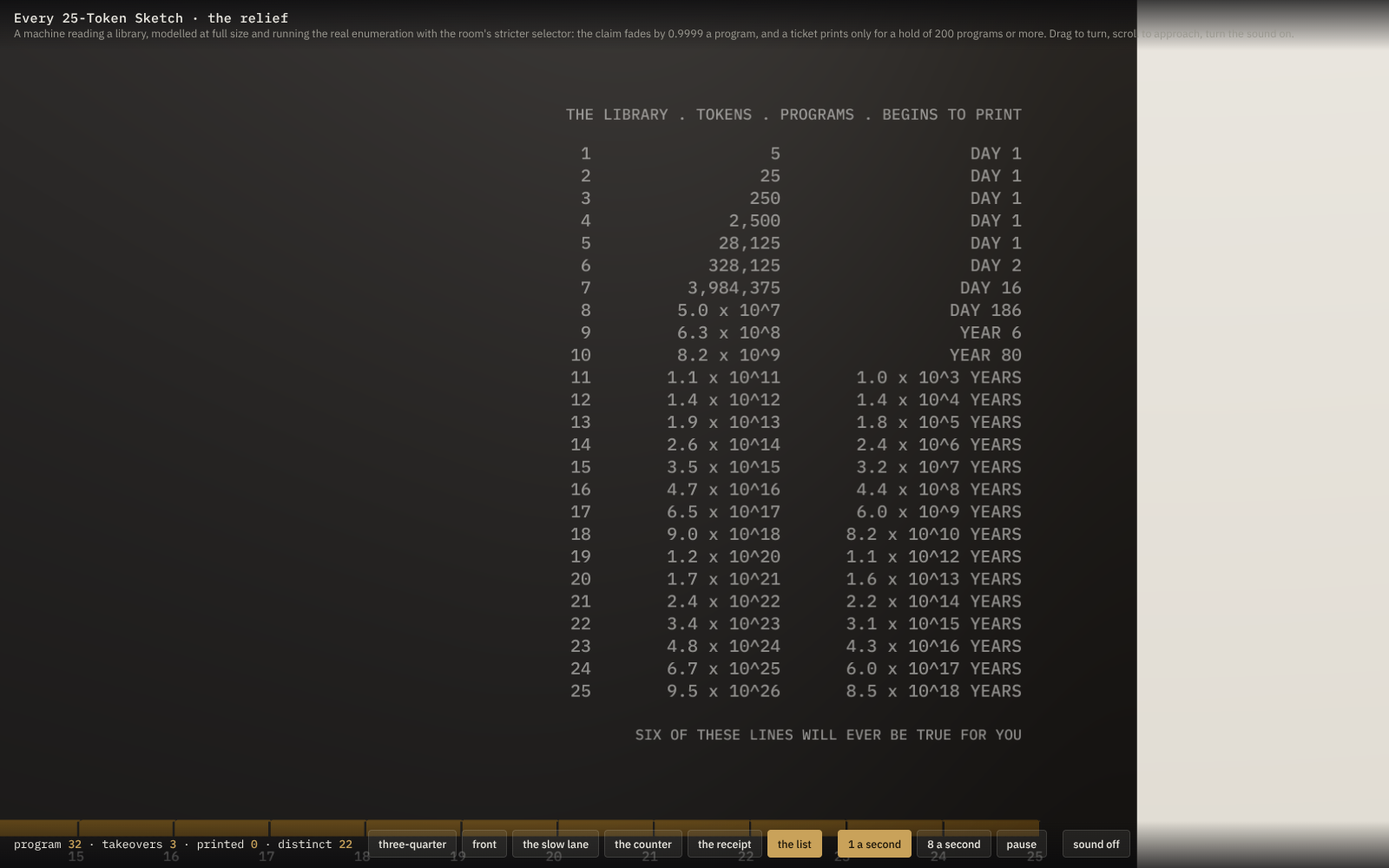
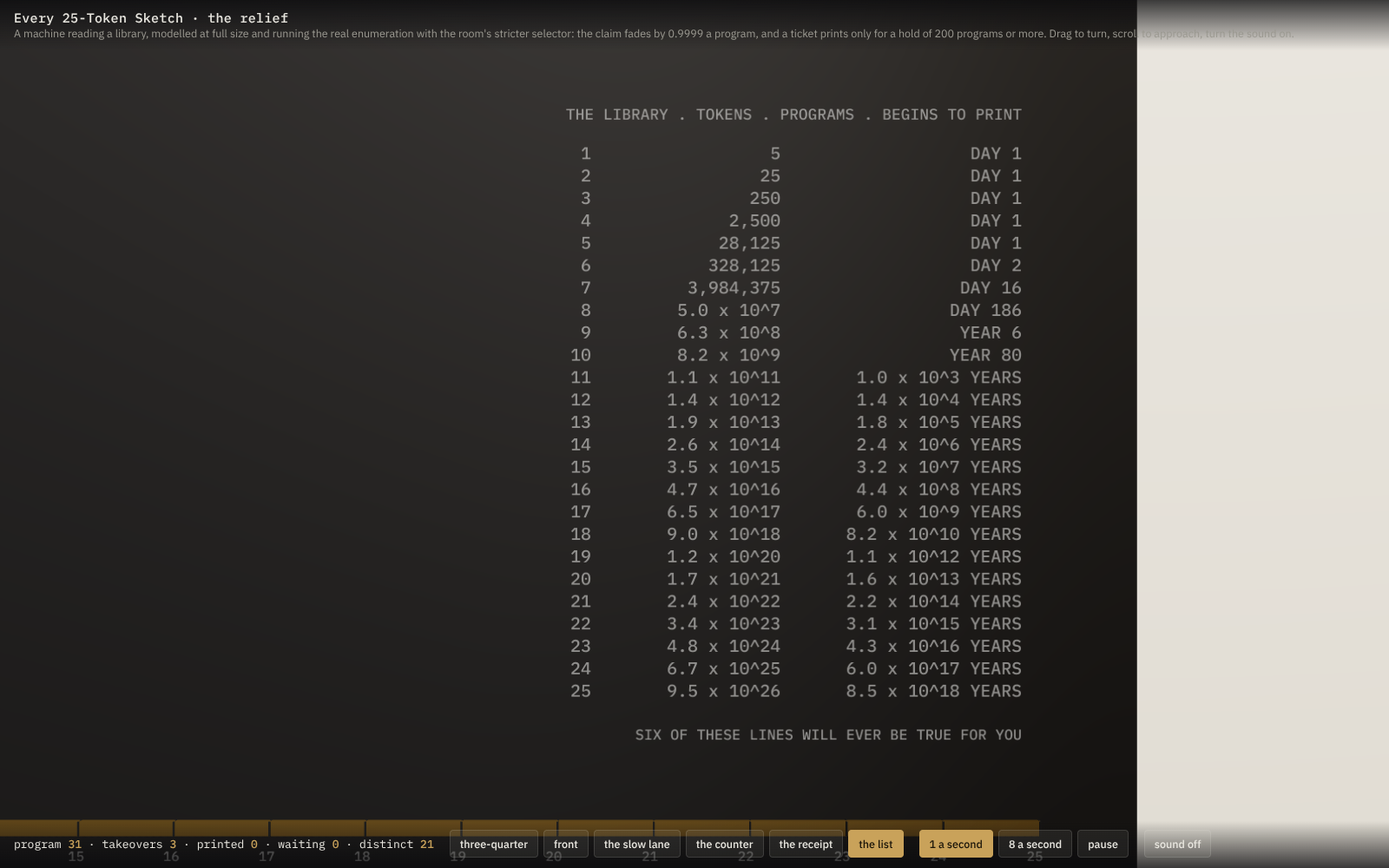
045: the queue of one — the pocket holds one ticket; the next prints when it is taken
receipt.js: the found that lasted join a queue; the oldest waiting ticket prints only into an
empty pocket, three seconds after the last was taken. The pocket is read by a reflective
sensor (--sensor 17, a GPIO, or a file), or a taker is simulated (--taken N); with neither
every found prints at once, as before. The cut is now a full cut: the partial cut would have
left the ticket hanging by a tab. The registry logs found, printed (with the wait) and taken.

The model: a 64 × 8 × 22 mm pocket with the sensor in its floor, one ticket standing, taken
after 8 to 24 s, "waiting" in the HUD. DESIGN.md, BUILD.md, the elevation and the README
follow, with the chute behind the face and the ruler's progression corrected: the pointer
crosses 298 mm on the first day, 473 at a year, 526 at six, on a belt-driven axis.

Claude-Session: https://claude.ai/code/session_01FhnofTHF49yv2QouZWRnps

Changed region(s): [[0.2188, 0.93, 0.8125, 0.992], [0.8438, 0.961, 0.875, 0.992]]

diff --git a/projects/045-every-25-token-sketch/relief/model.html b/projects/045-every-25-token-sketch/relief/model.html
@@ -38,7 +38,7 @@
   </div>
 </div>
 <div class="hud bottom">
-  <div class="stat">program <b id="prog">0</b> · takeovers <b id="found">0</b> · printed <b id="printed">0</b> · distinct <b id="distinct">0</b></div>
+  <div class="stat">program <b id="prog">0</b> · takeovers <b id="found">0</b> · printed <b id="printed">0</b> · waiting <b id="waiting">0</b> · distinct <b id="distinct">0</b></div>
   <div class="group" role="group" aria-label="view">
     <button id="v0" aria-pressed="true">three-quarter</button><button id="v1">front</button><button id="v2">the slow lane</button><button id="v3">the counter</button><button id="v4">the receipt</button><button id="v5">the list</button>
   </div>
@@ -612,11 +612,13 @@ const wheels = [];
 // the printer's font); the newest hangs from the slot for a moment, then drops into the tray
 box(720, 560, 120, 14, 0.006, recess, 0.0005);
 const tray = new THREE.Group(); scene.add(tray);
-{ const tp = mm(780, 672, 0.0); const w = 0.064, d = 0.022, h = 0.022, t = 0.0015;   // the pocket: folded 1.5 mm steel under the slot, 64 mm wide, 22 deep, a 22 mm front; the ticket stands in it, picture up, face out
+{ const tp = mm(780, 672, 0.0); const w = 0.064, d = 0.008, h = 0.022, t = 0.0015;   // the pocket: folded 1.5 mm steel under the slot, 64 mm wide, 8 deep, a 22 mm front; it holds one ticket, standing, picture up, face out
   const mk = (w, h, d, x, y, z) => { const m = new THREE.Mesh(new THREE.BoxGeometry(w, h, d), steel); m.position.set(x, y, z); m.castShadow = true; m.receiveShadow = true; tray.add(m); };
   mk(w + 2 * t, t, d, tp.x, tp.y - t / 2, tp.z + d / 2);                                                    // floor
   mk(t, h, d, tp.x - w / 2 - t / 2, tp.y + h / 2, tp.z + d / 2); mk(t, h, d, tp.x + w / 2 + t / 2, tp.y + h / 2, tp.z + d / 2);   // sides
   mk(w + 2 * t, h, t, tp.x, tp.y + h / 2, tp.z + d - t / 2);                                                // front
+  const eye = new THREE.Mesh(new THREE.CylinderGeometry(0.0015, 0.0015, 0.001, 10), new THREE.MeshStandardMaterial({ color: 0x111111, roughness: 0.3 }));   // the reflective sensor, in the pocket's floor
+  eye.position.set(tp.x + 0.02, tp.y + 0.0005, tp.z + d / 2); tray.add(eye);
 }
 label(762, 716, 'TAKE ONE', 11, 'left', 200);
 const DPM = 8, PAPER_W = 58 * DPM, PRINT_W = 384, TICKET_H = 726;
@@ -649,32 +651,37 @@ const slotP = mm(780, 574, 0.004), trayP = mm(780, 672, 0.0);   // the slot's fo
 const tickets = [];                                                  // { mesh, k, born, inTray }
 const ticketGeom = new THREE.PlaneGeometry(0.058, TICKET_H / DPM / 1000);
 function printTicket(f, no, now) {
-  const m = new THREE.Mesh(ticketGeom, new THREE.MeshStandardMaterial({ map: ticketTexture(f, no), roughness: 0.9, side: THREE.DoubleSide }));
+  const m = new THREE.Mesh(ticketGeom, new THREE.MeshStandardMaterial({ map: ticketTexture(f, no), roughness: 0.9, side: THREE.DoubleSide, transparent: true }));
   m.castShadow = true; m.position.copy(HANG_P); m.quaternion.copy(HANG_Q); scene.add(m);
-  tickets.push({ mesh: m, k: f.k, born: now, inTray: false, yaw: Math.sin(f.k * 3) * 0.03, dx: Math.sin(f.k * 7) * 0.001 });
-  while (tickets.length > 24) { const old = tickets.shift(); scene.remove(old.mesh); old.mesh.material.map.dispose(); old.mesh.material.dispose(); }
+  tickets.push({ mesh: m, k: f.k, born: now, takenAt: -1, dx: Math.sin(f.k * 7) * 0.001 });
 }
-// the printer prints the ticket last line first (receipt.js, upside-down mode), so it comes out
-// of the slot with its picture last and uppermost, face out, and slides straight down into the
-// pocket as it is fed; cut, it drops the last few millimetres and stands. Each new ticket comes
-// in behind the stack, against the panel, and pushes the older ones forward against the front:
-// the oldest is in front, leaning out a little, and that is the one a visitor takes
+// the queue of one. The printer prints the ticket last line first (receipt.js, upside-down
+// mode), so it comes out of the slot picture last and uppermost, face out, slides down a chute
+// into the pocket as it is fed and, cut, drops the last few millimetres and stands. The pocket
+// holds one ticket: a sensor in its floor sees it, and the next found prints three seconds
+// after it is taken. Here a visitor takes it after 8 to 24 seconds.
 const HANG_P = new THREE.Vector3(slotP.x, slotP.y - 0.045, slotP.z + 0.004);
 const HANG_Q = new THREE.Quaternion().setFromEuler(new THREE.Euler(0.03, 0, 0));
-const STAND_Y = trayP.y + TICKET_H / DPM / 2000 + 0.001, POCKET_BACK = trayP.z + 0.004, POCKET_FRONT = trayP.z + 0.019;
-const q = new THREE.Quaternion();
-function animateTickets(now) {                                       // hang from the slot for 2 s, then drop into the pocket and stand
-  const n = tickets.length;
-  tickets.forEach((t, i) => {
-    const age = now - t.born; if (age < 2) return;
-    const u = Math.min(1, (age - 2) / 0.4), e = u * u;
-    const back = n - 1 - i;                                          // 0 = the newest, against the panel; older ones pushed forward
-    const z = Math.min(POCKET_FRONT, POCKET_BACK + 0.0006 * back), tilt = 0.12 * (z - POCKET_BACK) / (POCKET_FRONT - POCKET_BACK);
-    q.setFromEuler(new THREE.Euler(tilt, t.yaw, 0));
-    t.mesh.position.set(HANG_P.x + t.dx, HANG_P.y + (STAND_Y - HANG_P.y) * e, HANG_P.z + (z - HANG_P.z) * e);
-    t.mesh.quaternion.slerpQuaternions(HANG_Q, q, e);
-    if (u >= 1) t.inTray = true;
-  });
+const STAND_P = new THREE.Vector3(slotP.x, trayP.y + TICKET_H / DPM / 2000 + 0.001, trayP.z + 0.004);
+const STAND_Q = new THREE.Quaternion().setFromEuler(new THREE.Euler(0.05, 0, 0));
+const queue = [], queued = new Set();                                // found that lasted, waiting for the pocket
+let pocket = null, takenAt = -Infinity, nextTake = 0;
+window.pocketHas = () => !!(pocket && pocket.takenAt < 0 && performance.now() / 1000 - pocket.born > 1.5);
+function serveQueue(now) {
+  if (pocket && now >= nextTake && pocket.takenAt < 0) { pocket.takenAt = now; takenAt = now; }
+  if (pocket && pocket.takenAt >= 0 && now - pocket.takenAt > 0.8) { scene.remove(pocket.mesh); pocket.mesh.material.map.dispose(); pocket.mesh.material.dispose(); tickets.splice(tickets.indexOf(pocket), 1); pocket = null; }
+  if (!pocket && queue.length && now - takenAt >= 3) { const f = queue.shift(); soundPrint(); printTicket(f, ++printedNo, now); pocket = tickets[tickets.length - 1]; nextTake = now + 8 + 16 * Math.random(); }
+  el.waiting.textContent = grp(queue.length);
+}
+let printedNo = 0;
+function animateTickets(now) {                                       // hang from the slot for 1 s, drop into the pocket and stand; taken, lift away
+  for (const t of tickets) {
+    if (t.takenAt >= 0) { const u = Math.min(1, (now - t.takenAt) / 0.8); t.mesh.position.set(STAND_P.x + t.dx, STAND_P.y + 0.12 * u, STAND_P.z + 0.25 * u * u); t.mesh.material.opacity = 1 - u; continue; }
+    const age = now - t.born; if (age < 1) continue;
+    const u = Math.min(1, (age - 1) / 0.3), e = u * u;
+    t.mesh.position.set(HANG_P.x + t.dx, HANG_P.y + (STAND_P.y - HANG_P.y) * e, HANG_P.z + (STAND_P.z - HANG_P.z) * e);
+    t.mesh.quaternion.slerpQuaternions(HANG_Q, STAND_Q, e);
+  }
 }
 // the plate: the library's 25 lengths, their counts, when each begins to print
 {
@@ -721,7 +728,7 @@ function animateFields(now) {
 }
 function setCounter(next, now) { const s = String(next).padStart(28, '0'); let changed = 0; for (let i = 0; i < 28; i++) { const d = +s[i], w = wheels[i]; if (d !== w.digit) { w.from = w.digit; w.digit = d; w.at = now; changed++; } } soundTicks(changed); }
 function animateWheels(now) { for (const w of wheels) { let d = w.digit; if (w.at >= 0) { const u = Math.min(1, (now - w.at) / 0.25); const from = w.from, to = w.digit, delta = ((to - from) % 10 + 10) % 10; d = from + delta * (u < 1 ? (1 - Math.cos(u * Math.PI)) / 2 : 1); if (u >= 1) w.at = -1; } w.mesh.rotation.x = ((d + 0.5) / 10) * Math.PI * 2; } }   // the rim's u runs from the face upward; rotating by +θ brings digit d to the face
-const el = { prog: document.getElementById('prog'), found: document.getElementById('found'), printed: document.getElementById('printed'), distinct: document.getElementById('distinct') };
+const el = { prog: document.getElementById('prog'), found: document.getElementById('found'), printed: document.getElementById('printed'), waiting: document.getElementById('waiting'), distinct: document.getElementById('distinct') };
 function tick(now) {
   const s = M.stats(), champ = M.champion();
   if (s.next !== lastNext) {
@@ -730,10 +737,11 @@ function tick(now) {
     setCounter(s.next, now);
     const px = rx(Math.max(1, s.next)); const p = mm(px, 1366, 0.012); pointer.position.set(p.x, p.y, p.z);
     el.prog.textContent = grp(s.next); el.found.textContent = grp(s.found); el.distinct.textContent = grp(s.distinct);
-    const pr = printedOf(M.found()); el.printed.textContent = grp(pr.length);
-    if (pr.length !== paperFor) { if (paperFor >= 0 && pr.length > paperFor) { soundPrint(); const f = pr[0]; printTicket(f, pr.length, now); } paperFor = pr.length; }
+    const pr = printedOf(M.found()); el.printed.textContent = grp(printedNo);
+    if (pr.length !== paperFor) { if (paperFor >= 0) for (let i = pr.length - paperFor - 1; i >= 0; i--) if (!queued.has(pr[i].k)) { queued.add(pr[i].k); queue.push(pr[i]); } paperFor = pr.length; }
   }
   if (champ && champ.k !== lastChamp) { lastChamp = champ.k; setField(lane, dots(champ.k, 58, now, true, buf56), now); }
+  serveQueue(now);
 }
 function resize() { const w = canvas.clientWidth, h = canvas.clientHeight; if (canvas.width !== Math.round(w * renderer.getPixelRatio()) || canvas.height !== Math.round(h * renderer.getPixelRatio())) { renderer.setSize(w, h, false); camera.aspect = w / h; camera.updateProjectionMatrix(); } }
 let last = performance.now();

diff --git a/projects/045-every-25-token-sketch/receipt/receipt.js b/projects/045-every-25-token-sketch/receipt/receipt.js
@@ -10,10 +10,12 @@
 //   node receipt.js [--device /dev/usb/lp0 | --tcp host:9100 | --out file.bin | --png dir]
 //                   [--width 384|576] [--rate 8] [--start HH:MM] [--replay N] [--cut]
 //                   [--fade 0.9999] [--minhold 200] [--nocut] [--upright] [--log file] [--sign key]
+//                   [--sensor 17 | --sensor file] [--taken 20]
 //
 // The room's selector is stricter than the screen's: the champion's claim fades by 0.9999 a
 // program (the screen's 0.9992), and a ticket is printed only for a champion that held the lane
-// 200 programs or more — the ones that lasted. Measured at one program a second, that is about
+// 200 programs or more — the ones that lasted. The pocket under the slot holds one ticket: the
+// found queue, and the next prints when the last is taken (--sensor). Measured at one program a second, that is about
 // a dozen tickets an exhibition day instead of a hundred. --fade 0.9992 --minhold 0 prints as
 // the screen selects.
 //
@@ -26,8 +28,12 @@
 // --start    lock the enumeration to the clock: program 1 at HH:MM JST today, so the printer and
 //            a screen started at the same minute agree on the program number
 // --replay   do not run live: print the found through program N at once (e.g. 30905), then exit
-// --nocut    feed only, one continuous strip (default: a partial cut after each ticket, so
-//            the ticket drops into the pocket under the slot for whoever is there to take)
+// --nocut    feed only, one continuous strip (default: a full cut after each ticket, so the
+//            ticket drops into the pocket under the slot for whoever is there to take)
+// --sensor   the pocket's reflective sensor: a GPIO number on a Raspberry Pi, or a file whose
+//            first byte is 0 (a ticket is standing in the pocket) or 1 (empty). With it the
+//            pocket holds one ticket: the next found prints 3 s after the last was taken
+// --taken    no sensor: pretend each ticket is taken N seconds after it prints (a rehearsal)
 // --upright  print the ticket top first (default: last line first in the printer's upside-down
 //            mode, so the ticket comes out of the slot picture last and uppermost and stands in
 //            the pocket face out, legible, the picture above the pocket's front)
@@ -48,7 +54,7 @@ const A = {}; const argv = process.argv.slice(2);
 for (let i = 0; i < argv.length; i++) { const k = argv[i]; if (k.startsWith('--')) { const v = argv[i + 1] && !argv[i + 1].startsWith('--') ? argv[++i] : true; A[k.slice(2)] = v; } }
 const WIDTH = +(A.width || 384), RATE = +(A.rate || 8), PROLOGUE = 280, FADE = +(A.fade || 0.9999), MINHOLD = +(A.minhold === undefined ? 200 : A.minhold);
 const COLS = Math.floor(WIDTH / 12);          // characters a line in the printer's font A (12 dots wide): 32 on 58 mm, 48 on 80 mm
-const CUT = !A.nocut, FLIP = !A.upright, LOG = A.log === undefined ? path.join(__dirname, 'receipt-log.jsonl') : A.log, SIGN = typeof A.sign === 'string' ? A.sign : null;
+const CUT = !A.nocut, FLIP = !A.upright, SENSOR = A.sensor === undefined ? null : String(A.sensor), TAKEN = A.taken === undefined ? null : +A.taken, LOG = A.log === undefined ? path.join(__dirname, 'receipt-log.jsonl') : A.log, SIGN = typeof A.sign === 'string' ? A.sign : null;
 const verify = (k) => (SIGN ? require('crypto').createHmac('sha256', SIGN).update(String(k)).digest('base64').replace(/[^A-Z2-9]/g, '').slice(0, 6) : null);
 if (!A.device && !A.tcp && !A.out && !A.png) { console.error('nothing to print to: give --device, --tcp, --out or --png'); process.exit(2); }
 
@@ -120,7 +126,7 @@ function ticket(f, no, when) {
   const textOut = () => { for (const l of ls) { if (l.bold) put(ESC, 0x45, 0x01); text(l.s); if (l.bold) put(ESC, 0x45, 0x00); } };
   if (FLIP) { put(ESC, 0x64, 0x01); textOut(); put(ESC, 0x64, 0x01); rasterOut(); } else { rasterOut(); put(ESC, 0x64, 0x01); textOut(); }
   put(ESC, 0x64, CUT ? 0x03 : 0x05);                                  // feed
-  if (CUT) put(GS, 0x56, 0x01);                                       // partial cut: the ticket drops into the pocket
+  if (CUT) put(GS, 0x56, 0x00);                                       // full cut: the ticket is free and drops into the pocket (a partial cut would leave it hanging by a tab)
   return Buffer.from(bytes);
 }
 
@@ -165,22 +171,50 @@ const jst = (ms) => { const d = new Date(ms + JST * 60000); return d.toISOString
 if (A.png) fs.mkdirSync(A.png, { recursive: true });
 const seen = new Set();
 let printed = 0;
-function flush(M, when) {                      // print every found not yet printed, oldest first
+// ── the queue of one ──
+// The pocket under the slot holds one ticket. A found that lasted joins the queue; the oldest
+// waiting ticket prints only when the pocket is empty, PAUSE seconds after the last was taken,
+// so a taker sees the machine answer. The pocket is read by a reflective sensor (--sensor), or
+// a taker is simulated (--taken N: taken N seconds after printing); with neither, the pocket is
+// assumed emptied at once and every found prints as it is found (replays, strips).
+const PAUSE = 3000;
+const queue = [];                                                   // { f, held, queuedAt }
+let occupied = false, takenAt = -Infinity, printedAt = 0, sensorPath = null;
+if (SENSOR !== null) {
+  if (/^\d+$/.test(SENSOR)) {                                        // a GPIO number on a Raspberry Pi: export it and read its value
+    sensorPath = '/sys/class/gpio/gpio' + SENSOR + '/value';
+    try { if (!fs.existsSync(sensorPath)) fs.writeFileSync('/sys/class/gpio/export', SENSOR); fs.writeFileSync('/sys/class/gpio/gpio' + SENSOR + '/direction', 'in'); } catch (e) { console.error('sensor:', e.message); }
+  } else sensorPath = SENSOR;                                        // or any file whose first byte is 0 (ticket present) or 1 (empty)
+}
+const pocketHasTicket = () => { try { return fs.readFileSync(sensorPath, 'utf8').trim()[0] === '0'; } catch (e) { return occupied; } };   // the TCRT5000 module's output goes low when paper reflects
+function collect(M) {                          // every found that lasted joins the queue, oldest first
   const list = M.found().slice().reverse();
   for (const f of list) {
     if (seen.has(f.k)) continue;
     seen.add(f.k);
     const held = Math.round((f.until - f.since) * RATE);
     if (held < MINHOLD) continue;                                  // it did not last: no ticket
-    printed++;
-    const entry = Object.assign({}, f, { held });
-    const w = when || jst(Date.now());
-    send(ticket(entry, printed, w));
-    if (A.png) png(entry, printed, w, A.png);
-    if (LOG) fs.appendFileSync(LOG, JSON.stringify({ no: printed, program: f.k + 1, code: f.code, postfix: f.postfix, tokens: f.n, score: +f.peak.toFixed(4), held, printed: w, verify: verify(f.k) }) + '\n');
-    console.log('found ' + printed + ': program ' + grp(f.k + 1) + '  ' + f.code + '  held ' + grp(held) + '  ' + w);
+    queue.push({ f: Object.assign({}, f, { held }), queuedAt: Date.now() });
+    if (LOG) fs.appendFileSync(LOG, JSON.stringify({ event: 'found', program: f.k + 1, code: f.code, held, waiting: queue.length }) + '\n');
   }
 }
+function serve(when) {                         // print the oldest waiting ticket into an empty pocket
+  const now = Date.now();
+  if (occupied) {
+    const taken = sensorPath ? !pocketHasTicket() : TAKEN !== null ? now - printedAt >= TAKEN * 1000 : true;
+    if (taken) { occupied = false; takenAt = now; if (LOG && (sensorPath || TAKEN !== null)) fs.appendFileSync(LOG, JSON.stringify({ event: 'taken', no: printed, after: +((now - printedAt) / 1000).toFixed(1) }) + '\n'); }
+  }
+  if (occupied || !queue.length) return;
+  if ((sensorPath || TAKEN !== null) && now - takenAt < PAUSE) return;
+  const { f, queuedAt } = queue.shift();
+  printed++; occupied = true; printedAt = now;
+  const w = when || jst(now);
+  send(ticket(f, printed, w));
+  if (A.png) png(f, printed, w, A.png);
+  if (LOG) fs.appendFileSync(LOG, JSON.stringify({ event: 'printed', no: printed, program: f.f ? f.f.k + 1 : f.k + 1, code: f.code, postfix: f.postfix, tokens: f.n, score: +f.peak.toFixed(4), held: f.held, waited: +((now - queuedAt) / 1000).toFixed(1), waiting: queue.length, printed: w, verify: verify(f.k) }) + '\n');
+  console.log('found ' + printed + ': program ' + grp(f.k + 1) + '  ' + f.code + '  held ' + grp(f.held) + '  ' + w + (queue.length ? '  (' + queue.length + ' waiting)' : ''));
+}
+function flush(M, when) { collect(M); do { const n = printed; serve(when); if (printed === n) break; } while (!(sensorPath || TAKEN !== null)); }
 if (A.replay) {
   const n = +A.replay;
   const M = Babel.create(canvas(), { at: n, rate: RATE, prologue: PROLOGUE, fade: FADE });
@@ -200,6 +234,6 @@ if (A.replay) {
     else console.log('locked to ' + A.start + ' JST: beginning at program ' + grp(from + 1));
   }
   const M = Babel.create(canvas(), { rate: RATE, prologue: PROLOGUE, from, fade: FADE });
-  console.log('live: ' + RATE + ' programs a second, ' + WIDTH + ' dots across, fade ' + FADE + ', a ticket for a hold of ' + MINHOLD + ' or more. Ctrl-C to stop.');
+  console.log('live: ' + RATE + ' programs a second, ' + WIDTH + ' dots across, fade ' + FADE + ', a ticket for a hold of ' + MINHOLD + ' or more' + (sensorPath ? ', the pocket read at ' + sensorPath : TAKEN !== null ? ', a taker every ' + TAKEN + ' s' : '') + '. Ctrl-C to stop.');
   setInterval(() => { if (rafCb) { const cb = rafCb; rafCb = null; cb(Date.now()); } flush(M); }, 50);
 }

diff --git a/tools/relief-elevation.py b/tools/relief-elevation.py
@@ -29,7 +29,7 @@ rect(712,452,520,46,'#1b1b20')
 for i in range(28): rect(720+i*18,460,16,30,'#101014','#2a2a30',1)
 T(712,528,'THE PROGRAM . 28 DIGIT WHEELS, 18 MM (ANNOTATION)',s=11); dim(712,442,1232,442,'520')
 rect(720,560,120,14,'#1b1b20'); T(860,571,'THE RECEIPT . 58 MM SLOT (ANNOTATION)',s=11)
-rect(751,578,58,72,'#e8e6df','#e8e6df',1); rect(747,650,66,22,'#1b1b20','#444',1); T(860,662,'THE POCKET . 64 x 22 x 22 MM, FOLDED 1.5 MM STEEL . THE TICKET STANDS IN IT, PICTURE UP, FACE OUT (ANNOTATION)',s=11); dim(747,690,813,690,'66'); T(762,718,'TAKE ONE',s=11)
+rect(751,578,58,72,'#e8e6df','#e8e6df',1); rect(747,650,66,22,'#1b1b20','#444',1); T(860,662,'THE POCKET . 64 x 8 x 22 MM, FOLDED 1.5 MM STEEL . ONE TICKET, STANDING, PICTURE UP; A SENSOR IN ITS FLOOR; THE NEXT PRINTS WHEN THIS ONE IS TAKEN (ANNOTATION)',s=11); T(860,678,'A CHUTE BEHIND THE FACE TURNS THE PAPER 60 DEG DOWN FROM THE PRINTER MOUTH TO THE SLOT; FULL CUT (ANNOTATION)',s=11,c='#555'); dim(747,690,813,690,'66'); T(762,718,'TAKE ONE',s=11)
 # the list, engraved in the face, aligned right
 T(1920,804,'THE LIBRARY . TOKENS . PROGRAMS . BEGINS TO PRINT','end',13)
 for i,(n,c,b) in enumerate(rows):
@@ -42,7 +42,7 @@ total=math.log10(CUM[25])
 for n in range(1,26):
     xx=80+1840*math.log10(CUM[n])/total; o.append(f'<rect x="{xx-0.75:.1f}" y="1374" width="1.5" height="12" fill="#2a2415"/>'); T(f'{xx:.1f}',1404,str(n),'middle',11)
 px=80+1840*math.log10(397)/total; o.append(f'<path d="M{px:.1f},1366 l-6,-12 l12,0 z" fill="#e8e6df"/>')
-T(80,1356,'THE LIBRARY . BRASS, ENGRAVED LOG SCALE . POINTER ON A LEAD SCREW, 1840 MM TRAVEL (ANNOTATION)',s=11); dim(80,1430,1920,1430,'1840')
+T(80,1356,'THE LIBRARY . BRASS, ENGRAVED LOG SCALE . POINTER ON A BELT AXIS, 1840 MM TRAVEL: 298 MM ON DAY 1, 473 MM AT A YEAR, 526 AT SIX (ANNOTATION)',s=11); dim(80,1430,1920,1430,'1840')
 T(80,1460,'EVERY 25-TOKEN SKETCH . A MACHINE READING A LIBRARY',s=13)
 dim(0,1540,2000,1540,'2000'); dim(2040,0,2040,1500,'1500',16)
 o.append('</svg>'); print('\n'.join(o))

diff --git a/projects/045-every-25-token-sketch/relief/DESIGN.md b/projects/045-every-25-token-sketch/relief/DESIGN.md
@@ -27,9 +27,9 @@ simulator (`simulator.html`) runs both; `?tiles=25` shows the rejected layout.
 | the conveyor | five flip-dot fields of 28 × 28 dots, the last five programs, oldest left, one new program a second; thresholded | five × 280 × 280 mm at 10 mm pitch, 20 mm apart |
 | the slow lane | one flip-dot field of 58 × 58 dots, the champion, dithered; changes hands when a better unrepeated picture arrives, its claim fading by 0.9999 a program | 580 × 580 mm, flush with the first two tiles |
 | the program | 28 electromechanical digit wheels showing the program number with leading zeros; the last 24 wheels never turn | 504 × 30 mm |
-| the receipt | the stage-2 printer behind the panel, its slot in the face, a folded steel pocket 98 mm beneath; the ticket is printed last line first, so it slides into the pocket picture last and uppermost; cut, it drops 7 mm and stands, face out, the picture above the pocket's front. Each new ticket comes in behind and pushes the older ones forward: the oldest is in front, and that is the one a visitor takes. "TAKE ONE" engraved beneath | 58 mm slot, 64 × 22 × 22 mm pocket |
+| the receipt | the stage-2 printer behind the panel, a chute from its mouth to the slot in the face, a folded steel pocket 98 mm beneath that holds one ticket. The ticket is printed last line first, so it descends into the pocket picture last and uppermost; a full cut frees it and it stands, face out, the picture above the pocket's front. A sensor in the pocket's floor sees it; the found queue, and the next prints three seconds after this one is taken. "TAKE ONE" engraved beneath | 58 mm slot, 64 × 8 × 22 mm pocket |
 | the list | engraved in the panel's face, aligned right in the lower right field: the 25 lengths, their counts, the day or year each begins to print; static, so engraved, not a plate | a 560 × 560 mm block |
-| the library | a brass bar engraved with the 25 shelves on a log scale, a pointer on a lead screw at the current program; it advances by a hair a day and sits at the far left for all time | 1840 mm travel |
+| the library | a brass bar engraved with the 25 shelves on a log scale, a pointer on a belt-driven axis at the current program: it crosses 298 mm on the first day, is at 473 mm after a year and 526 after six, and never passes the ninth tick in a lifetime | 1840 mm travel |
 | engraving | the element names, in the panel's own voice: "THE CONVEYOR . THE LAST FIVE PROGRAMS, ONE A SECOND", "THE PROGRAM . 28 WHEELS . THE LAST 24 NEVER TURN" | 13 pt, filled white |
 
 Layout, as first drawn: the conveyor across the top; the slow lane at the bottom left; the
@@ -88,8 +88,12 @@ Six lines of the list will ever be true for a visitor. The rest are the point.
   on the first two days (measured).
   Under the screen's rule the sixth shelf would need 15 m of shelving within a month; under
   the room's rule it holds a year.
-- The slow lane changes with a visible flip of 3,364 dots; the printer fires at the same moment.
-- The counter steps once a second; the pointer moves 0.15 mm an hour at the current shelf.
+- The slow lane changes with a visible flip of 3,364 dots; if the pocket is empty the printer
+  fires at the same moment, otherwise the found waits its turn.
+- The counter steps once a second. The pointer's position is the logarithm of the program
+  number: 298 mm from the left at the end of day 1, 318 on day 2, 380 on day 16, 473 after a
+  year, 526 in year 6, 610 in year 100; half a millimetre a day in the first year, a tenth of
+  that after ten. The first day is the one visible journey; everything after is a hair.
 - The seventh shelf begins to print on day 16, the eighth on day 186, the ninth in year 6.
 - Outside the room's hours the machine rehearses from program 1, as the screen does.
 - Maintenance is a roll of paper every two months and a spare printer on a shelf; see
@@ -102,10 +106,10 @@ Six lines of the list will ever be true for a visitor. The rest are the point.
 | flip-dot modules | 36 + the lane's rim | AlfaZeta XY5 or equivalent, 28 × 7 dots, 10 mm pitch, RS-485; 20 for the conveyor (four a tile), 16 for the slow lane's 56 × 56 core (two across, eight down). 58 is not a multiple of the module: the lane's outer column and row on each side (228 dots) are either a custom strip from the module maker, or fixed dots in the same discs set white or black by hand, or the 56 × 56 core in a 580 mm frame. Decide with the vendor at step 1 | high: the largest line |
 | digit wheels | 28 | electromechanical or stepper-driven 18 mm wheels, 0 to 9, white on black; the last 24 can be fixed wheels showing 0 | mid |
 | printer | 1 | the stage-2 unit, mounted behind the slot | low |
-| ruler | 1 | brass bar 1840 × 12 mm, engraved; lead screw, stepper, limit switch | mid |
+| ruler | 1 | brass bar 1840 × 12 mm, engraved; a 2 m belt-driven linear axis (a camera slider's), NEMA 17 stepper, home switch; homed at power-up and driven open loop from the clock | mid |
 | controller | 1 | Linux box with Node, an RS-485 adapter, a stepper board | low |
 | panel | 1 | folded 2 mm steel, 2000 × 1500 mm, black, with cut-outs and a rear frame; wall-hung on a French cleat; about 60 kg with modules | mid |
-| pocket | 1 | folded 1.5 mm steel, 64 mm wide inside, 22 deep, 22 mm front, under the slot; holds a season of tickets standing; the list is engraved in the panel itself, with the title, the ruler's numbers and "TAKE ONE" | low |
+| pocket, sensor, chute | 1 each | folded 1.5 mm steel pocket 64 × 8 × 22 mm under the slot, one ticket standing; a TCRT5000 reflective sensor in its floor; a folded steel chute from the printer's mouth to the slot. The list is engraved in the panel itself, with the title, the ruler's numbers and "TAKE ONE" | low |
 | power | 1 | 24 V for the modules, 24 V for the printer, 12 V for the steppers, one mains cable | low |
 
 The module count is the budget. Halving the conveyor to three tiles saves eight modules and
@@ -142,7 +146,7 @@ wheels' sourcing (stepper-driven wheels from a signage maker are the fallback).
 > a library of programs of one to twenty-five tokens. The machine reads it in order, shortest
 > first, one program a second, and shows the last five. A selector with a stated preference
 > holds one picture longer; when it lets go of one it kept long enough, the printer prints it
-> and lets it go: take it. The counter names the program; its last twenty-four wheels will
+> and stands it in the pocket: take it, and the next one found will print. The counter names the program; its last twenty-four wheels will
 > never turn. The pointer on the ruler marks the reading's place in the library and will not
 > leave the left end. The list at the right gives the twenty-five lengths of the library and
 > the day or year each begins to print; six of its lines will ever be true for you. Nothing here is a

diff --git a/projects/045-every-25-token-sketch/receipt/BUILD.md b/projects/045-every-25-token-sketch/receipt/BUILD.md
@@ -28,6 +28,18 @@ printed last line first in the printer's upside-down mode (`--upright` to print 
 it leaves the slot footer first and the picture comes out last, uppermost: in the pocket it
 stands picture up, face out, legible without being touched.
 
+## The queue of one
+
+The pocket under the slot holds one ticket. A found that lasted joins a queue; the oldest
+waiting ticket prints only when the pocket is empty, three seconds after the last was taken,
+so whoever took it sees the machine answer. A reflective sensor in the pocket's floor (a
+TCRT5000 module on the controller's GPIO, `--sensor 17`) reports whether a ticket is standing
+there. No ticket ever lands on another, nothing can overflow, and on a quiet day the found
+wait in the queue and the registry records them as waiting. The cut is a full cut (a partial
+cut would leave the ticket hanging by a tab); a folded steel chute behind the face turns the
+paper 60° downward from the printer's mouth to the slot, so the leading edge descends into the
+pocket as the ticket is fed. Load the roll so its curl bends the same way.
+
 ## The room's rule, and how much it prints
 
 The screen's selector fades the champion's claim by 0.9992 a program; under that rule the
@@ -59,7 +71,9 @@ swap the USB cable and the roll, ten minutes, no repair.
 | spare printer | the same model | low | the service plan |
 | controller | Raspberry Pi 4, Node 18+, `receipt.js` as a systemd service with `Restart=always` | low | no moving parts; a reboot resumes at the right program from the clock |
 | paper | 58 mm thermal rolls, 80 m, top-coated archival grade (fade-resistant), phenol-free | low | one roll about two months; keep four; a day's run on a new paper first, thermal stocks differ |
-| pocket | a folded 1.5 mm steel pocket under the slot, 64 mm wide inside, 22 deep, 22 mm front, its floor 98 mm below the slot | low | the ticket slides into it as it is printed and stands when cut, picture up, face out; whoever is there takes the front one |
+| pocket | a folded 1.5 mm steel pocket under the slot, 64 mm wide inside, 8 deep, 22 mm front, its floor 98 mm below the slot | low | holds one ticket, standing, picture up, face out |
+| sensor | TCRT5000 reflective module in the pocket's floor, on a GPIO; output low when paper is over it | under 1 EUR | the queue of one: the next ticket prints when this one is taken |
+| chute | folded steel, from the printer's mouth to the slot, turning the paper 60° down | low | the ticket descends into the pocket as it is fed |
 | power | the printer's own 24 V supply, 5 V for the controller, one cable to the wall | low | |
 
 Nothing else. No display, no keyboard, no network needed except for a network printer.
@@ -79,7 +93,10 @@ good for is decided elsewhere; the printer only makes it checkable.
 node receipt.js --replay 2780 --png /tmp/strip
 
 # a USB printer, locked to the room's clock, 58 mm paper, cut tickets, the registry beside the script
-node receipt.js --device /dev/usb/lp0 --start 10:00 --sign "the foundation's secret"
+node receipt.js --device /dev/usb/lp0 --start 10:00 --sensor 17 --sign "the foundation's secret"
+
+# a rehearsal without the sensor: a taker every 20 s
+node receipt.js --device /dev/usb/lp0 --start 10:00 --taken 20
 
 # a network printer, 80 mm paper
 node receipt.js --tcp 192.168.1.50:9100 --width 576 --start 10:00
@@ -96,7 +113,7 @@ Description=Every 25-Token Sketch: the receipt of the found
 After=network.target
 
 [Service]
-ExecStart=/usr/bin/node /opt/receipt/receipt.js --device /dev/usb/lp0 --start 10:00 --log /var/lib/receipt/registry.jsonl
+ExecStart=/usr/bin/node /opt/receipt/receipt.js --device /dev/usb/lp0 --start 10:00 --sensor 17 --log /var/lib/receipt/registry.jsonl
 Restart=always
 User=pi
 
@@ -119,7 +136,7 @@ and the paper on the floor are the same list.
 
 - **58 or 80 mm.** 58 mm is the till-roll register the work wants and fits a day on one roll;
   80 mm gives a 72 mm image and a more legible ticket. Print both test strips before choosing.
-- **Cut.** Decided: the printer cuts, the ticket stands in the pocket, and whoever is there
+- **Cut.** Decided: a full cut; the ticket stands in the pocket, and whoever is there
   takes it. `--nocut` keeps the continuous strip for a showing where nothing leaves the room.
 - **Black or steel.** The housing in the Takis register is black; raw steel reads as kiosk
   hardware, which may be the more honest surface for a till printer.

diff --git a/projects/045-every-25-token-sketch/README.md b/projects/045-every-25-token-sketch/README.md
@@ -164,8 +164,9 @@ The third physical form, designed and simulated, not yet built: a black steel pa
 28 × 28 dots (the last five programs, thresholded, one a second), the slow lane as a 58 × 58
 field (the champion, dithered), 28 electromechanical digit wheels for the program number (the
 last 24 never turn), the stage-2 printer behind a slot with the paper falling to the floor,
-and a brass ruler of the library on a log scale with a pointer that advances by a hair a day.
-The printer cuts; the ticket stands in a steel pocket under the slot, picture up, and whoever is there takes it. The
+and a brass ruler of the library on a log scale whose pointer crosses a sixth of it on the
+first day and then slows to a hair.
+The printer cuts; the ticket stands in a steel pocket under the slot, picture up, and whoever is there takes it. The pocket holds one: a sensor sees it, and the next found prints when it is taken. The
 conveyor runs across the top, the slow lane sits at the bottom left with the counter and the
 slot beside it, the ruler runs along the foot, and in the dark field at the right the 25
 lengths of the library, their counts, and the day or year each begins to print are engraved in
